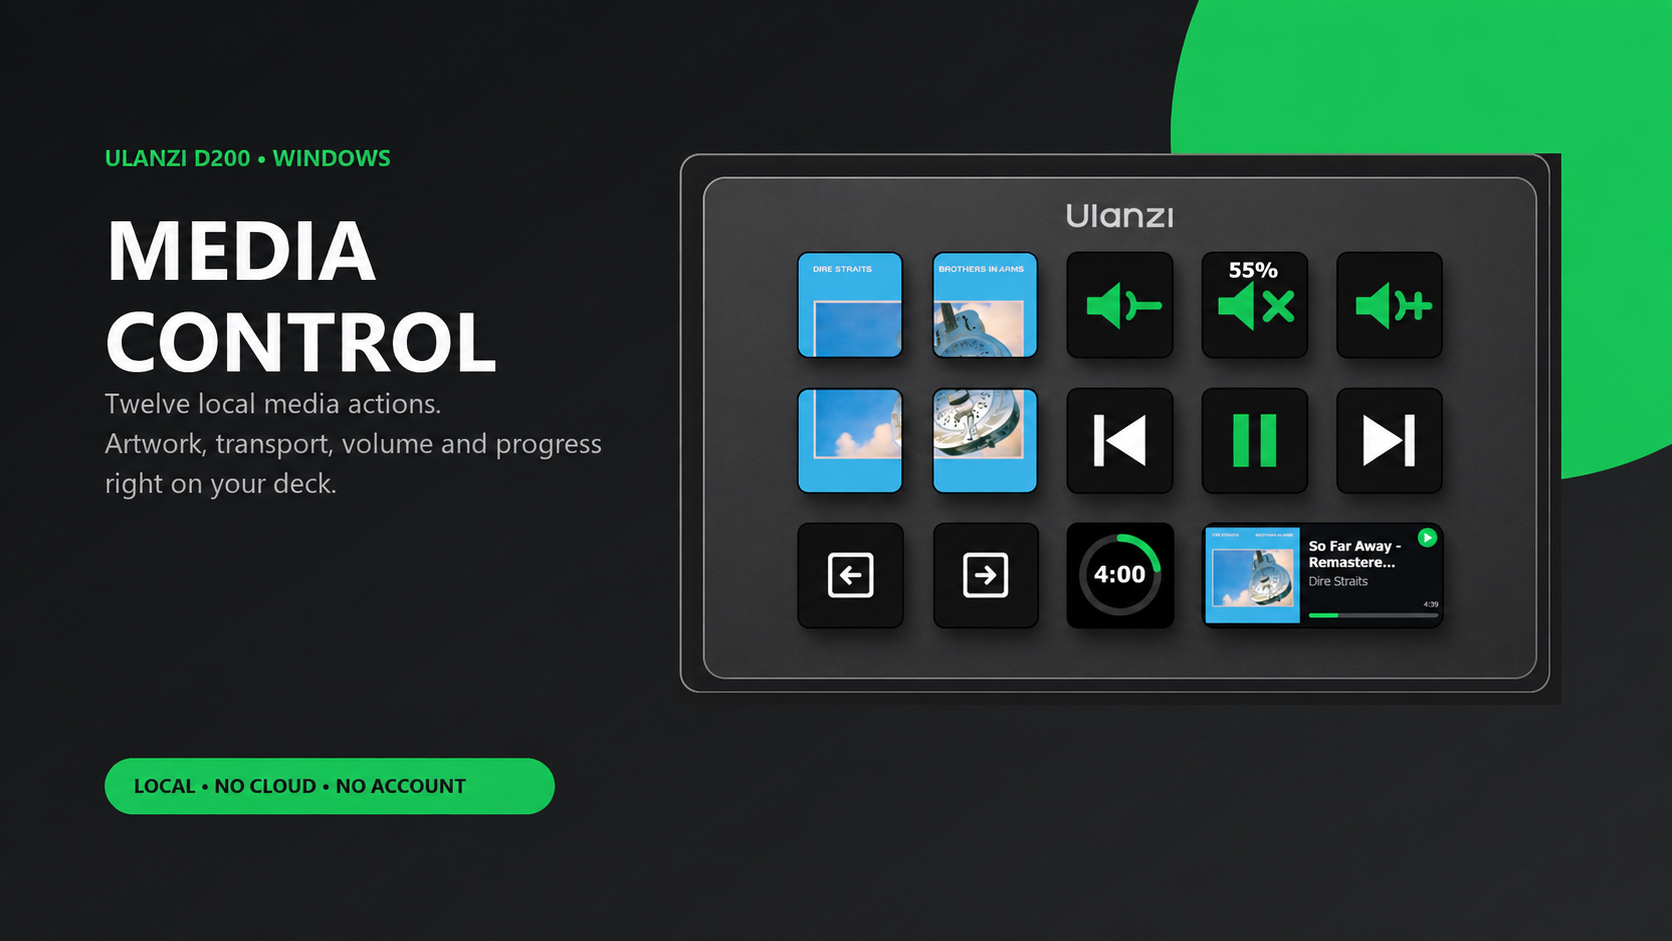
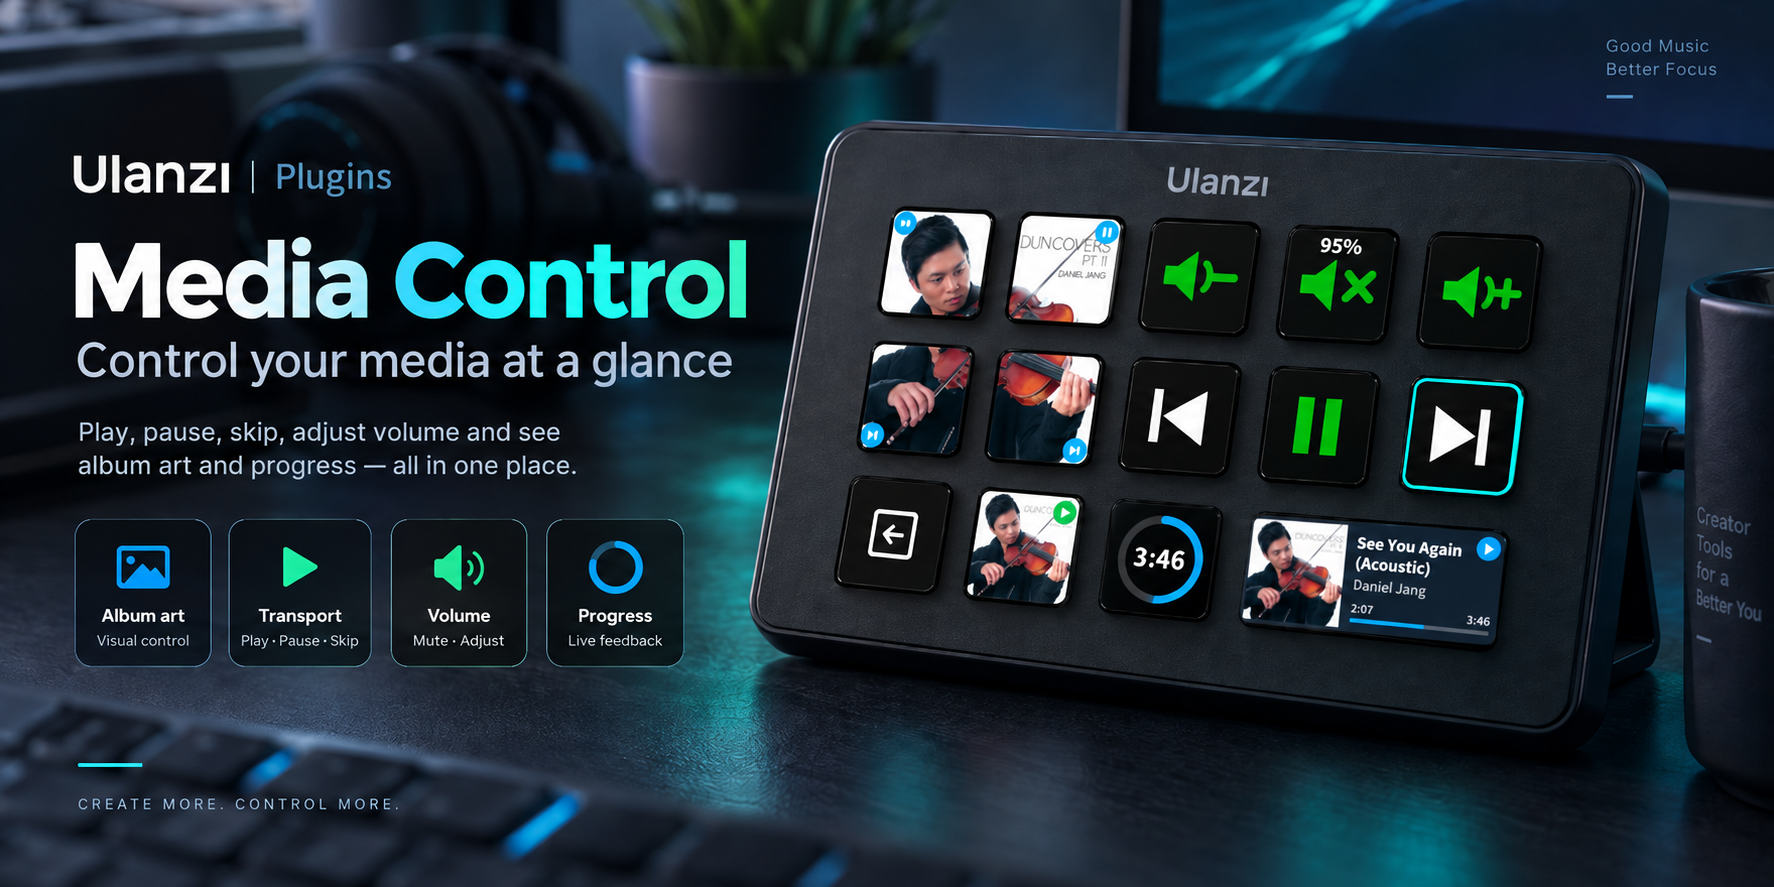
docs(store): refresh v1.7.1 presentation

diff --git a/README.md b/README.md
@@ -68,6 +68,8 @@ bundle can be produced without starting the bridge using
 
 ### Plugin installation
 
+- **Current release**: v1.7.1 is distributed as one plugin package with its supervised
+  companion bridge embedded; no separate companion installation is required.
 - **Ulanzi Community Store**: once published, search for *Media Control for D200*.
 - **Manual**: download `com.arkamax404.mediacontrold200.ulanziPlugin.zip` from the
   latest [GitHub release](https://github.com/arkamax404-max/MediaControlGsmtcPlugin/releases),
@@ -110,7 +112,7 @@ the same close and validation flow, followed by an attempted automatic relaunch.
 
 | Action | Press behavior | Key display |
 |---|---|---|
-| Now Playing | Toggle play/pause | Full artwork with playback badge, optional bottom progress bar, title, and artist |
+| Now Playing | Toggle play/pause | Full artwork with configurable playback badge and progress accent, title, and artist |
 | Large Now Playing | None (display only) | Center display with artwork, title, artist, playback state, progress, and time |
 | Previous | Previous track | Transport icon with `Previous` label |
 | Play/Pause | Toggle play/pause | `Pause` icon while playing, `Play` icon while paused |
@@ -119,10 +121,10 @@ the same close and validation flow, followed by an attempted automatic relaunch.
 | Volume Down | Selected source volume −5 points | Volume icon with the selected percentage |
 | Mute Toggle | Mute or unmute the selected source | Generated key: selected volume percentage at the top, speaker icon below |
 | Track Progress | Cycle time mode | Circular progress arc with the selected time |
-| Artwork Top Left | None (display only) | Top-left 196×196 quadrant of the artwork |
-| Artwork Top Right | None (display only) | Top-right quadrant of the artwork |
-| Artwork Bottom Left | None (display only) | Bottom-left quadrant of the artwork |
-| Artwork Bottom Right | None (display only) | Bottom-right quadrant of the artwork |
+| Artwork Top Left | Configured secondary action or none | Top-left 196×196 quadrant with an optional corner action badge |
+| Artwork Top Right | Configured secondary action or none | Top-right quadrant with an optional corner action badge |
+| Artwork Bottom Left | Configured secondary action or none | Bottom-left quadrant with an optional corner action badge |
+| Artwork Bottom Right | Configured secondary action or none | Bottom-right quadrant with an optional corner action badge |
 | Setup Large Display | Install, repair, or restore the managed center action | Live transaction, recovery, and failure status |
 
 Every action renders its own fallback when the companion is unreachable
@@ -207,7 +209,9 @@ it falls back to a bundled music icon. Pressing the key toggles play/pause exact
 per press. A circular playback badge overlays the top-right corner using the same visual
 language as Large Now Playing. A thin progress bar follows the bottom edge whenever GSMTC
 provides a valid timeline; disable **Show progress bar** in this key's Property Inspector
-to keep only the artwork and playback badge.
+to keep only the artwork and playback badge. The **Accent color** setting controls the
+play/pause circle and the filled portion of the progress bar; both keep white playback
+glyphs for contrast.
 
 ### Transport keys
 
@@ -256,8 +260,8 @@ Together they display one centered 392x392 color artwork image. The complete sou
 image is preserved: non-square media uses transparent letterboxing or pillarboxing so
 the D200's black key background shows through instead of cropping the artwork. Each key
 receives one exact 196x196 PNG quadrant. The mosaic remains in color while playback is
-paused. These four buttons are display-only: pressing them sends no command and changes
-no playback or local mode state. The polled state contains only an artwork content ID;
+paused. These four buttons are display-only by default and send no command while **On
+press** is set to **None**. The polled state contains only an artwork content ID;
 the plugin fetches one immutable color, grayscale, and four-tile bundle when that ID
 changes, then shares the validated bundle across every artwork key instead of
 retransmitting images on each state poll.
@@ -266,7 +270,9 @@ Each artwork tile has an **On press** setting. It defaults to **None**, preservi
 display-only behavior, or can execute Previous, Play/Pause, Next, Volume Up, Volume Down,
 or Mute Toggle through the same bounded command queue as the dedicated controls. Audio
 actions expose an independent Audio source selector on each tile. The selected secondary
-action never replaces or redraws the artwork quadrant.
+action appears as a configurable circular badge in that tile's outer corner. Badges use
+white state-aware glyphs, including play/pause and mute state, and are hidden when **On
+press** is **None**. Each tile stores its own badge color.
 
 ### Track Progress
 
